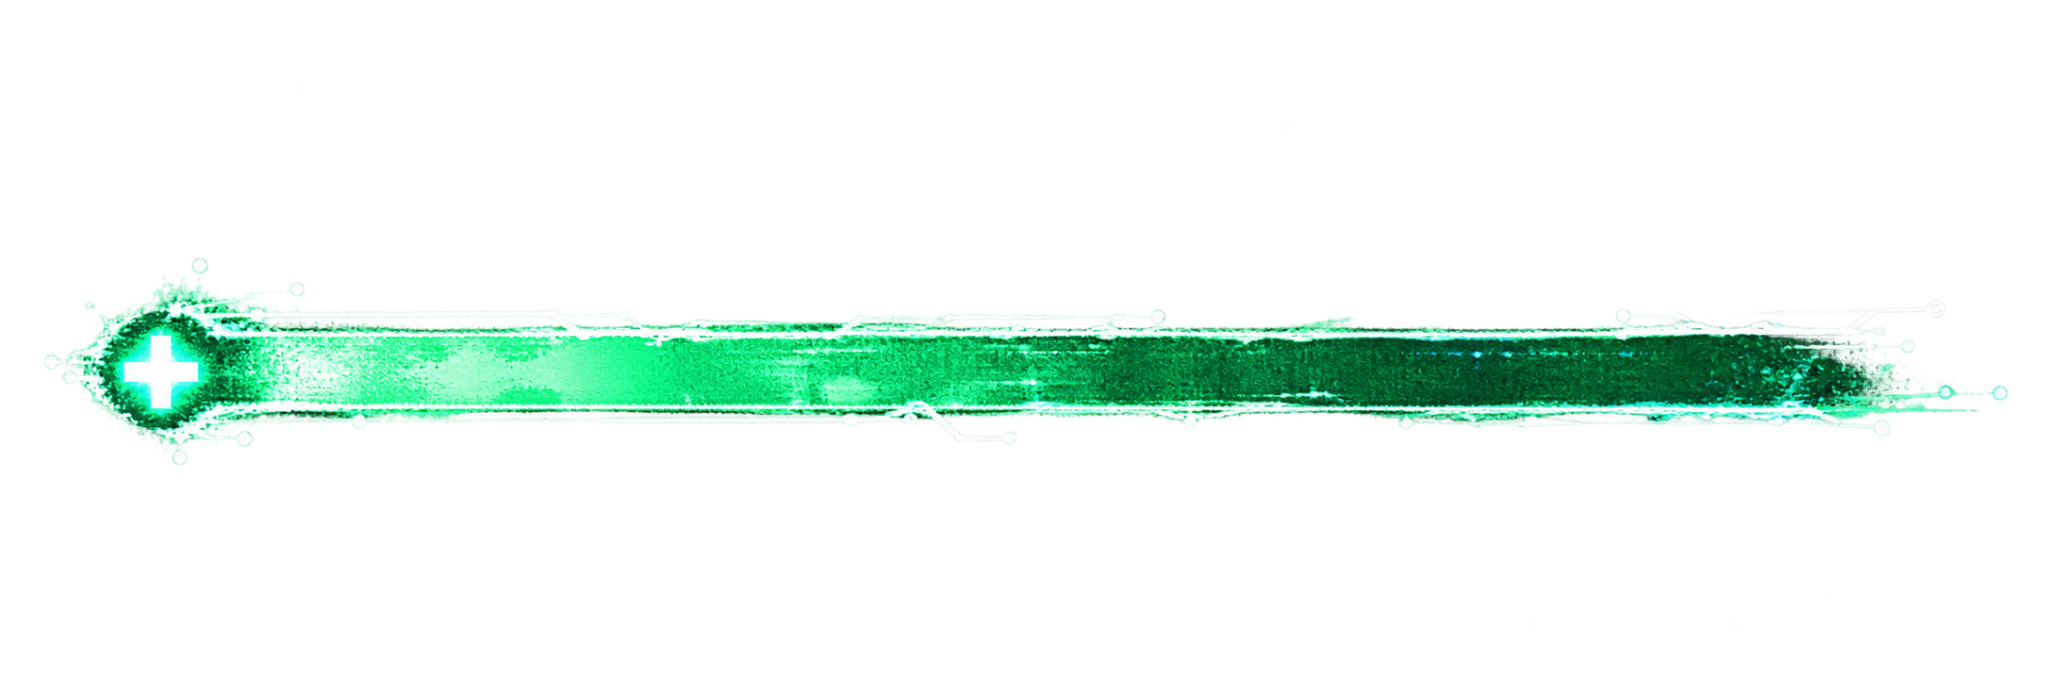
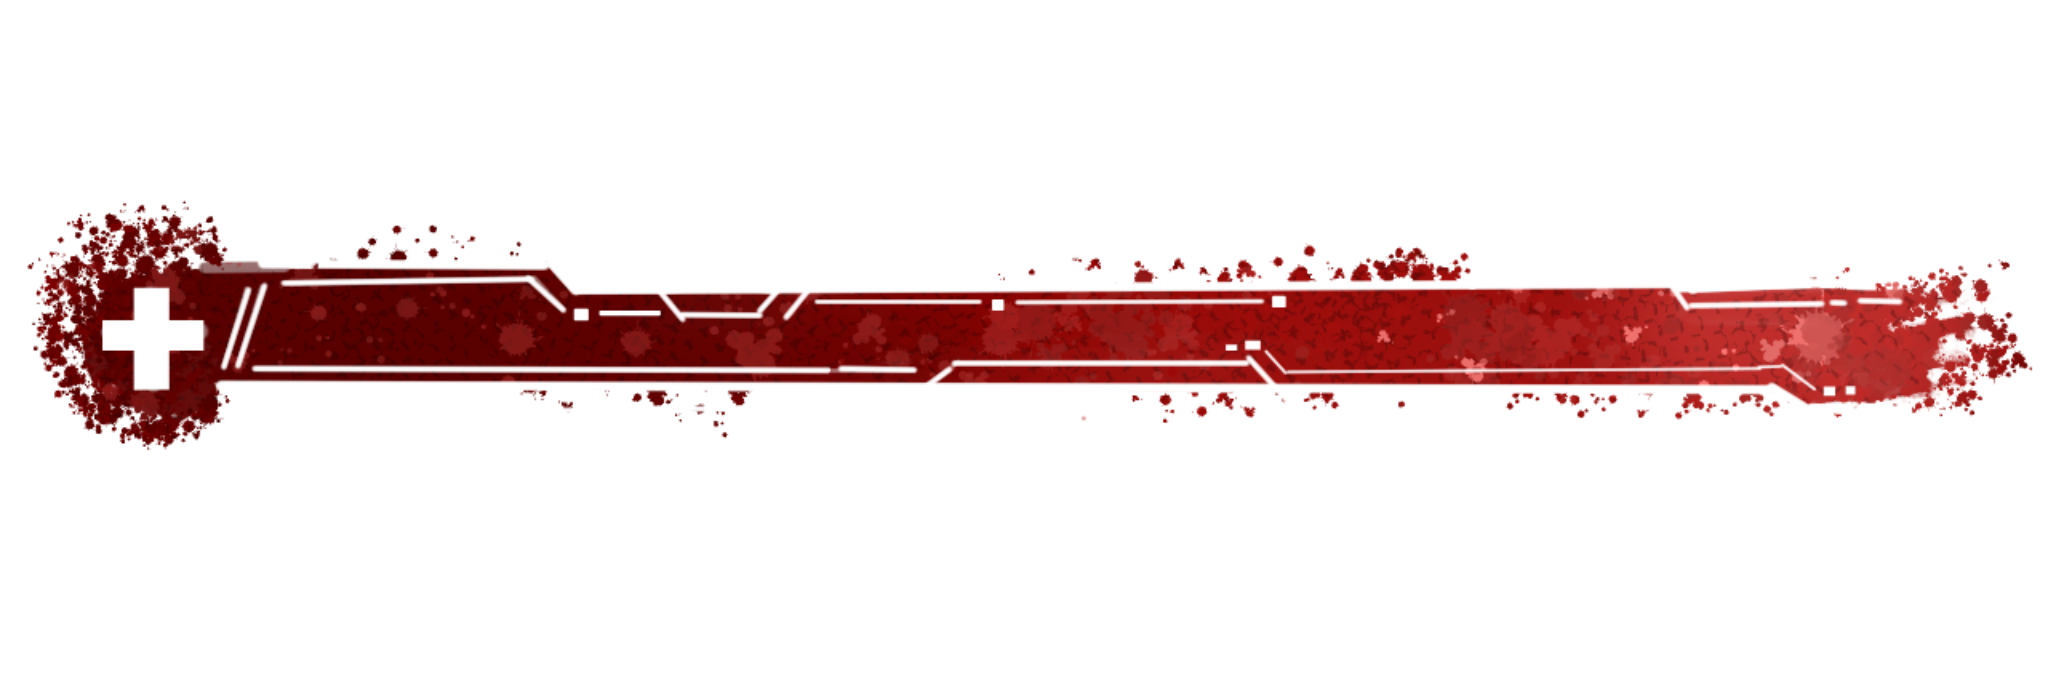
Heal

Changed region(s): [[0.0, 0.3079, 1.0, 0.6774]]

diff --git a/TeacherKillYou/Source/Items/Inventory.cpp b/TeacherKillYou/Source/Items/Inventory.cpp
@@ -337,8 +337,8 @@ void Inventory::DrawHealingHUD() const
         return;
 
     const float progress = GetHealingProgress();
-    const float hudWidth = 460.0f;   // CHANGE: healing bar width
-    const float hudHeight = 54.0f;   // CHANGE: healing bar height
+    const float hudWidth = 600.0f;   // CHANGE: healing bar width
+    const float hudHeight = 144.0f;   // CHANGE: healing bar height
     const float x = (GetScreenWidth() - hudWidth) * 0.5f;
     const float y = GetScreenHeight() - 195.0f; // CHANGE: vertical position
 
@@ -383,10 +383,10 @@ void Inventory::DrawHealingHUD() const
             static_cast<int>(hudWidth * progress), 20, GREEN);
     }
 
-    const char* timer = TextFormat("HEALING   %.1f / 3.0s", (std::min)(healTimer_, HEAL_DURATION));
-    DrawText(timer,
-        static_cast<int>((GetScreenWidth() - MeasureText(timer, 18)) / 2.0f),
-        static_cast<int>(y - 24.0f), 18, WHITE);
+    //const char* timer = TextFormat("HEALING   %.1f / 3.0s", (std::min)(healTimer_, HEAL_DURATION));
+    //DrawText(timer,
+    //    static_cast<int>((GetScreenWidth() - MeasureText(timer, 18)) / 2.0f),
+    //    static_cast<int>(y - 24.0f), 18, WHITE);
 }
 
 void Inventory::DrawHUD() const
